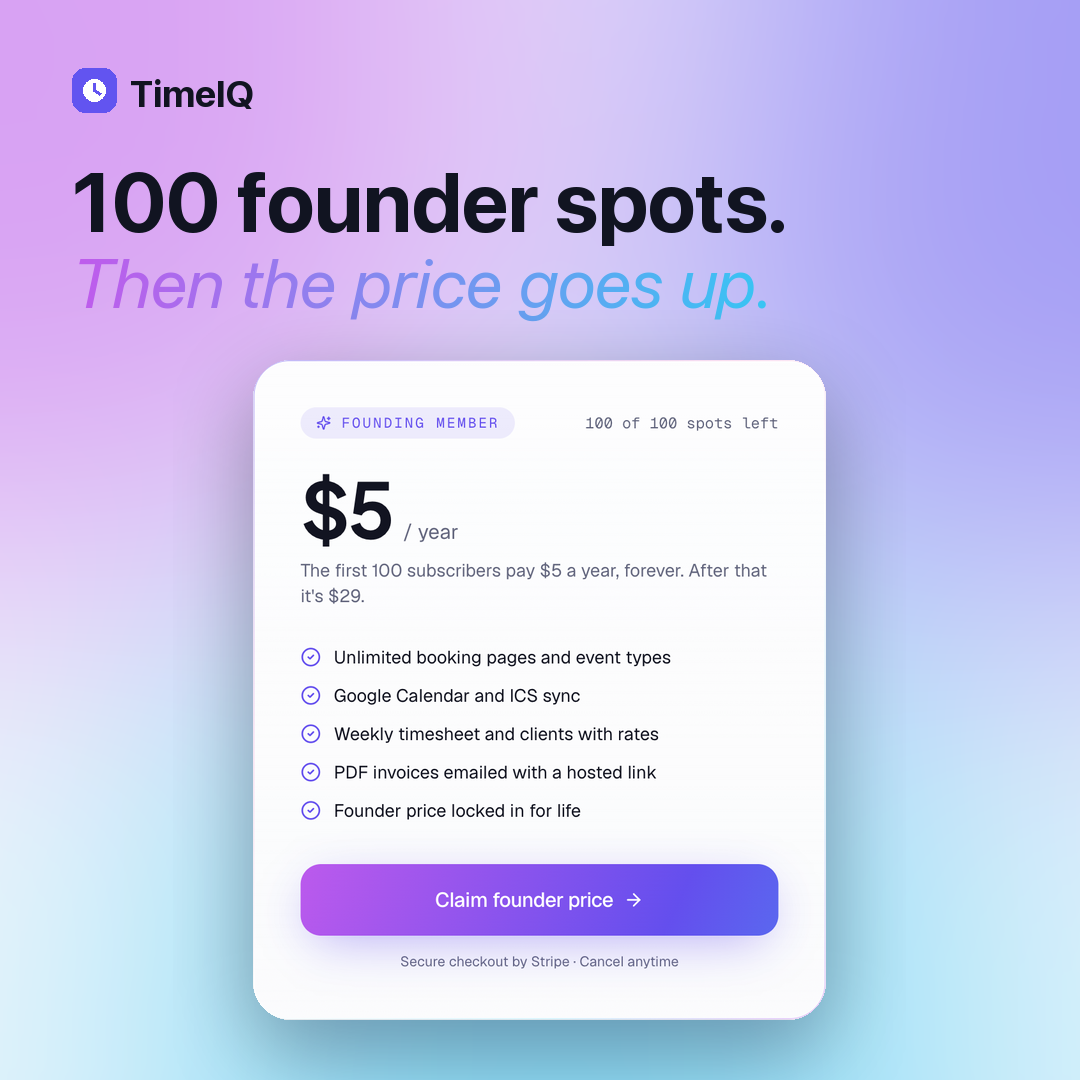
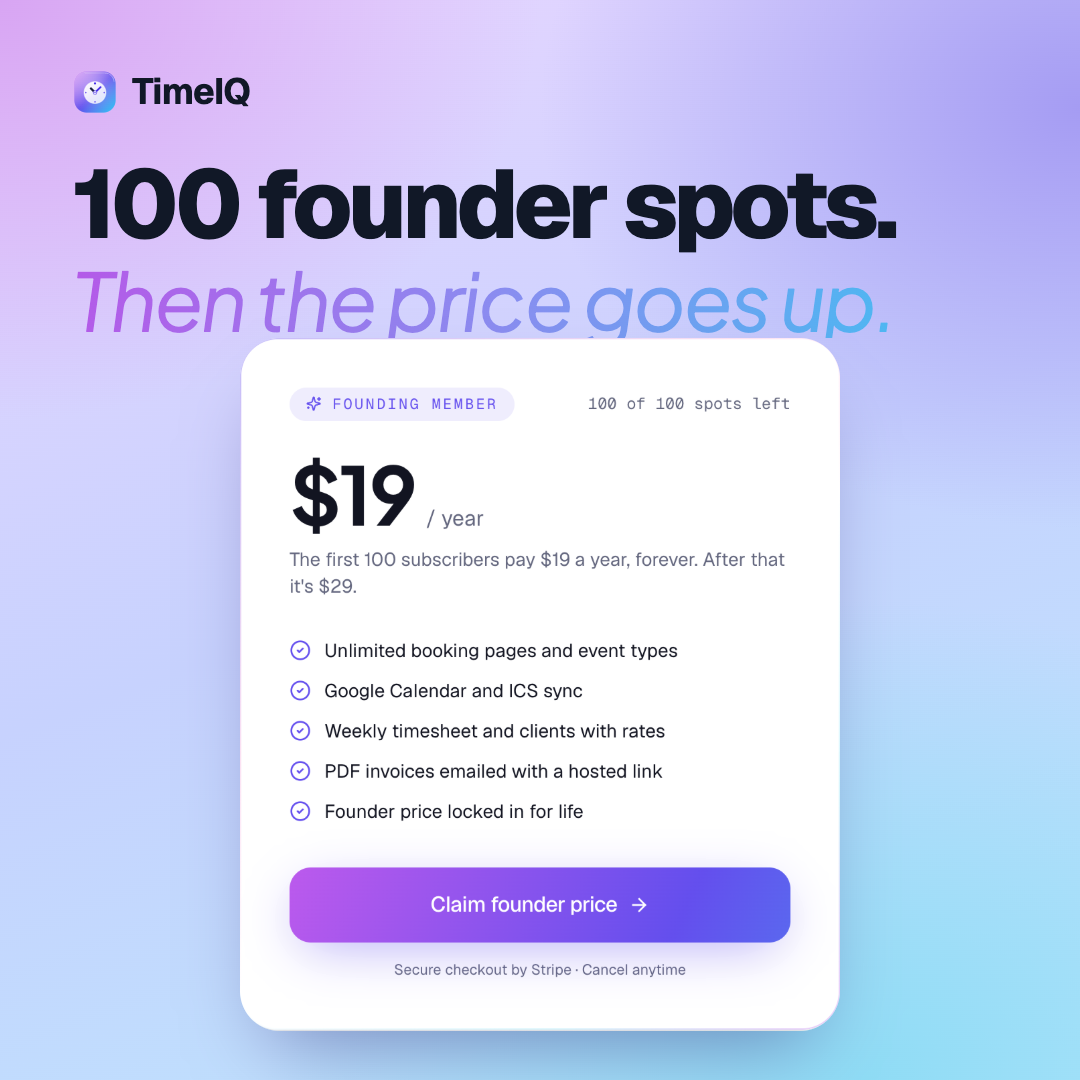
Rebuild the ad creatives at $19 a year, with 9:16 cuts for Reels
A, B and C now come from an HTML template (src/ad.html, src/render.py)
so they can be regenerated; D, E and F had only their price edited.

Claude-Session: https://claude.ai/code/session_016mgPtG2pNfB9qmSBF8jS9F

diff --git a/docs/marketing/creatives/src/ad.html b/docs/marketing/creatives/src/ad.html
@@ -1,0 +1,67 @@
+<!doctype html>
+<!-- TimeIQ static ad template. Rendered by render.py: ad.html?ad=A&h=1080 -->
+<html>
+<head>
+<meta charset="utf-8">
+<style>
+  @font-face { font-family: "Jakarta"; src: url("../../../../frontend/public/fonts/PlusJakartaSans-normal-latin.woff2"); font-weight: 200 800; }
+  @font-face { font-family: "Jakarta"; src: url("../../../../frontend/public/fonts/PlusJakartaSans-italic-latin.woff2"); font-weight: 200 800; font-style: italic; }
+  @font-face { font-family: "Geist"; src: url("../../../../frontend/node_modules/geist/dist/fonts/geist-sans/Geist-Variable.woff2"); font-weight: 100 900; }
+  @font-face { font-family: "GeistMono"; src: url("../../../../frontend/node_modules/geist/dist/fonts/geist-mono/GeistMono-Variable.woff2"); font-weight: 100 900; }
+  * { box-sizing: border-box; margin: 0; padding: 0; }
+  html, body { width: 1080px; }
+  .ad {
+    position: relative; width: 1080px; overflow: hidden; font-family: "Geist", sans-serif; color: #111827;
+    background:
+      radial-gradient(900px 700px at 0% 0%, #d8a5f3 0%, transparent 60%),
+      radial-gradient(900px 700px at 100% 10%, #a59cf3 0%, transparent 60%),
+      radial-gradient(1000px 800px at 80% 100%, #8fdcf5 0%, transparent 60%),
+      linear-gradient(160deg, #e9d5ff 0%, #c7d2fe 50%, #bae6fd 100%);
+    padding: 68px 72px;
+    display: flex; flex-direction: column;
+  }
+  .brand { display: flex; align-items: center; gap: 14px; font-weight: 700; font-size: 36px; letter-spacing: -0.02em; }
+  .brand img { width: 46px; height: 46px; }
+  h1 { font-family: "Geist"; font-weight: 800; letter-spacing: -0.045em; line-height: 0.95; }
+  .it { font-family: "Jakarta"; font-style: italic; font-weight: 400; letter-spacing: -0.03em;
+        background: linear-gradient(90deg, #b45ae8 0%, #8b8cf0 45%, #3cc3f2 100%); -webkit-background-clip: text; color: transparent; }
+  .sub { color: #5b6275; font-size: 40px; line-height: 1.4; letter-spacing: -0.01em; }
+  .chip { display: inline-block; background: #0f1220; color: #fff; font-weight: 700; font-size: 31px; padding: 22px 34px; border-radius: 999px; }
+  .pill { background: #6157f0; color: #fff; font-weight: 800; font-size: 44px; padding: 16px 32px; border-radius: 999px; letter-spacing: -0.02em; white-space: nowrap; }
+  .card { border-radius: 40px; box-shadow: 0 40px 80px -30px rgba(40,30,110,.45); }
+  .spacer { flex: 1; }
+</style>
+</head>
+<body>
+<div class="ad" id="ad"></div>
+<script>
+const q = new URLSearchParams(location.search);
+const H = +(q.get("h") || 1080), tall = H > 1400;
+const el = document.getElementById("ad");
+el.style.height = H + "px";
+if (tall) el.style.padding = "140px 72px 220px";
+const brand = `<div class="brand"><img src="../../../../frontend/public/favicon.svg">TimeIQ</div>`;
+const T = {
+  A: `${brand}<div class="spacer"></div>
+      <h1 style="font-size:168px">$19 a year.</h1>
+      <h1 class="it" style="font-size:128px;margin-top:18px">Yes, a year.</h1>
+      <p class="sub" style="margin-top:56px">Booking pages, weekly timesheets,<br>and PDF invoices in one calm app.</p>
+      <div style="margin-top:${tall ? 90 : 64}px"><span class="chip">First 100 founders lock it in for life</span></div>
+      <div class="spacer"></div>${tall ? '<div class="spacer"></div>' : ""}`,
+  B: `${brand}
+      <span class="pill" style="position:absolute;right:72px;top:${tall ? 128 : 56}px">$19 / year</span>
+      <h1 style="font-size:104px;margin-top:${tall ? 200 : 76}px">Log the hours.<br><span class="it" style="font-weight:400">Send the invoice.</span></h1>
+      <div class="spacer"></div>
+      <img class="card" src="../source/timesheet-card-crop.png" style="width:${tall ? 936 : 1000}px;border-radius:40px;margin-left:${tall ? 0 : -32}px">
+      <div class="spacer"></div>${tall ? '<p class="sub" style="text-align:center">First 100 founders lock it in for life.</p><div class="spacer"></div>' : ""}`,
+  C: `${brand}
+      <h1 style="font-size:96px;margin-top:${tall ? 120 : 44}px">100 founder spots.</h1>
+      <h1 class="it" style="font-size:80px;margin-top:12px">Then the price goes up.</h1>
+      <div class="spacer"></div>
+      <img class="card" src="../source/pricing-card-2x.png" style="width:${tall ? 820 : 600}px;align-self:center">
+      <div class="spacer"></div>`,
+};
+el.innerHTML = T[q.get("ad") || "A"];
+</script>
+</body>
+</html>

diff --git a/docs/marketing/creatives/src/render.py b/docs/marketing/creatives/src/render.py
@@ -1,0 +1,27 @@
+"""Render the HTML ad templates to PNG.
+
+Usage (from anywhere): python3 docs/marketing/creatives/src/render.py
+Writes ad-{A,B,C}-*-1080.png (square) and -1080x1920.png (Reels/Stories) next to this folder.
+Needs the frontend node_modules (Geist font) and system Chrome; Playwright's bundled browser is not required.
+"""
+from pathlib import Path
+
+from playwright.sync_api import sync_playwright
+
+HERE = Path(__file__).resolve().parent
+OUT = HERE.parent
+ADS = {"A": "price-shock", "B": "timesheet", "C": "founder-spots"}
+SIZES = {1080: "1080", 1920: "1080x1920"}
+
+with sync_playwright() as p:
+    browser = p.chromium.launch(channel="chrome")
+    page = browser.new_page(viewport={"width": 1080, "height": 1920})
+    for key, slug in ADS.items():
+        for h, suffix in SIZES.items():
+            page.goto(f"{(HERE / 'ad.html').as_uri()}?ad={key}&h={h}")
+            page.wait_for_load_state("networkidle")
+            page.evaluate("document.fonts.ready")
+            out = OUT / f"ad-{key}-{slug}-{suffix}.png"
+            page.locator("#ad").screenshot(path=str(out))
+            print(out.name)
+    browser.close()

diff --git a/docs/marketing/2026-09-facebook-founder-campaign.md b/docs/marketing/2026-09-facebook-founder-campaign.md
@@ -7,17 +7,17 @@ Goal: find out whether strangers will pay for TimeIQ. Budget $5/day for 14 days 
 1. **Stripe live mode** (done 2026-09-03: live product, prices, webhook, and portal exist; price ids and seat count are on Vercel)
    - Still needed on the **backend** Vercel project: `STRIPE_SECRET_KEY` and `STRIPE_WEBHOOK_SECRET`, added from your terminal, then redeploy.
    - `scripts/stripe_setup.py` is idempotent; rerun it any time to repair the product, prices, webhook, or portal config.
-   - Test once with a real card at $5, then refund yourself from the Stripe dashboard if you like. Confirm the success page says "You're in" and Settings shows the Billing card.
+   - Test once with a real card at $19, then refund yourself from the Stripe dashboard if you like. Confirm the success page says "You're in" and Settings shows the Billing card.
 2. **Meta Pixel**
    - Events Manager → Create pixel → copy the id. Set `NEXT_PUBLIC_META_PIXEL_ID` on the **frontend** Vercel project and redeploy.
-   - The site fires `PageView` on every page, `InitiateCheckout` on the pricing button, and `Purchase` (value 5 or 29 USD) on the success page. Verify with the Meta Pixel Helper extension.
+   - The site fires `PageView` on every page, `InitiateCheckout` on the pricing button, and `Purchase` (value 19 or 29 USD) on the success page. Verify with the Meta Pixel Helper extension.
 3. **Clerk production keys** are still dev keys in prod (see memory note). Swap them before spending money, since dev keys cap sign-ups and show a dev banner.
 4. Confirm the landing page loads fast on mobile. Most ad traffic is mobile.
 
 ## What the market is doing (researched 2026-09-03)
 
 - **Calendly barely runs paid social.** Its growth came from the booking link itself (every invite is an ad), a freemium tier, and LinkedIn content, which drove about 60 percent of its referral traffic. There is no Calendly ad creative to copy, and matching an incumbent's hooks is a losing move anyway: mid-2026 Meta practitioners report that "hooks matching competitors get ignored, regardless of quality."
-- **The cheap end of the market sells on price shock.** TidyCal ($29 lifetime, 200k signups via AppSumo) and ZCal ($49 lifetime) win with a single number that sounds wrong. "$5 a year" belongs in that lane, so lead with the price and treat the feature list as support.
+- **The cheap end of the market sells on price shock.** TidyCal ($29 lifetime, 200k signups via AppSumo) and ZCal ($49 lifetime) win with a single number that sounds wrong. "$19 a year" belongs in that lane, so lead with the price and treat the feature list as support.
 - **What is scaling on Meta right now**: static images still carry 60 to 70 percent of conversions; the "322" test (3 creatives, 2 headlines, 2 primary texts, 12 combinations in one ad set) beats spreading budget across many ad sets; one primary text short (about 180 characters) and one long enough to need "see more"; hook shapes that keep working are "If you..." and "How to know if..."; listicle-style landing pages converted cheaper than product pages ($62 vs $85 per purchase in one account).
 - **Small-budget rules**: Meta needs about 50 conversion events or 7 days to leave the learning phase, and every edit resets it. Check on day 8, not day 2. Scale by at most 20 percent a day once cost per purchase is under target. Founders reporting $5/day tests describe it as enough for retargeting or a single-message test, not for broad prospecting, so keep exactly one ad set.
 - **Creative enhancement settings**: turn off Meta's text generation, enhanced CTA, and 3D animation; leave on visual touch-ups, relevant comments, and sitelinks.
@@ -43,14 +43,14 @@ Pick one and keep it broad. Small budgets do badly with narrow targeting.
 
 ## Ads
 
-Three static images (images, not a mix with video): (1) **"$5 a year. Yes, a year."** in the display font over the aurora background, (2) a clean screenshot of the timesheet grid with the invoice chip, (3) the pricing card cropped to "$5 / year · 100 of 100 spots left". Keep the logo small. Lead with the price everywhere; that is the one thing Calendly cannot say.
+Three static images (images, not a mix with video): (1) **"$19 a year. Yes, a year."** in the display font over the aurora background, (2) a clean screenshot of the timesheet grid with the invoice chip, (3) the pricing card cropped to "$19 / year · 100 of 100 spots left". Keep the logo small. Lead with the price everywhere; that is the one thing Calendly cannot say.
 
-Short primary text (for the 322 pairing): **If you book calls, log hours, and send invoices, you are paying three apps. TimeIQ does all three for $5 a year. First 100 people lock it in for life.**
+Short primary text (for the 322 pairing): **If you book calls, log hours, and send invoices, you are paying three apps. TimeIQ does all three for $19 a year. First 100 people lock it in for life.**
 
 ### Ad 1: Price anchor
 
-- **Primary text**: Calendly for booking. Toggl for hours. FreshBooks for invoices. Or one calm app that does all three for $5 a year. The first 100 people lock that price in for life.
-- **Headline**: Scheduling, timesheets, and invoices. $5/year.
+- **Primary text**: Calendly for booking. Toggl for hours. FreshBooks for invoices. Or one calm app that does all three for $19 a year. The first 100 people lock that price in for life.
+- **Headline**: Scheduling, timesheets, and invoices. $19/year.
 - **Description**: Founding member price, locked forever. Cancel anytime.
 - **CTA button**: Sign Up
 
@@ -58,13 +58,13 @@ Short primary text (for the 322 pairing): **If you book calls, log hours, and se
 
 - **Primary text**: You did the work. Now you get to chase the booking, rebuild the timesheet from memory, and hand-write the invoice. TimeIQ does all three in one place. Log hours in a weekly grid, click once, and a PDF invoice lands in your client's inbox.
 - **Headline**: From booked meeting to paid invoice.
-- **Description**: $5/year for the first 100 founding members.
+- **Description**: $19/year for the first 100 founding members.
 - **CTA button**: Learn More
 
 ### Ad 3: Curiosity, short
 
-- **Primary text**: We priced our scheduling + invoicing app at $5 a year for the first 100 people. Not a typo. We want users, not a spreadsheet of trials.
-- **Headline**: 100 founder spots. $5 a year.
+- **Primary text**: We priced our scheduling + invoicing app at $19 a year for the first 100 people. That is less than two months of Calendly, for the whole year. Price locked for life.
+- **Headline**: 100 founder spots. $19 a year.
 - **Description**: Booking pages, timesheets, PDF invoices.
 - **CTA button**: Sign Up
 
@@ -75,8 +75,8 @@ Short primary text (for the 322 pairing): **If you book calls, log hours, and se
 | Link clicks | Ads Manager | 10 to 30 per day |
 | Cost per click | Ads Manager | under $1.00 |
 | Landing page → sign-up | Clerk users list vs clicks | 5 to 15 percent |
-| Sign-up → paid | Stripe customers vs Clerk users | 30 percent or more (the $5 price should convert most sign-ups) |
-| Purchases | Stripe, and the pixel `Purchase` count | 1 or more per $10 spent is a strong signal |
+| Sign-up → paid | Stripe customers vs Clerk users | 30 percent or more (at $19 a year most sign-ups should still convert) |
+| Purchases | Stripe, and the pixel `Purchase` count | 1 or more per $19 spent means the ads pay for themselves in year one |
 
 ## Decision at day 14
 
